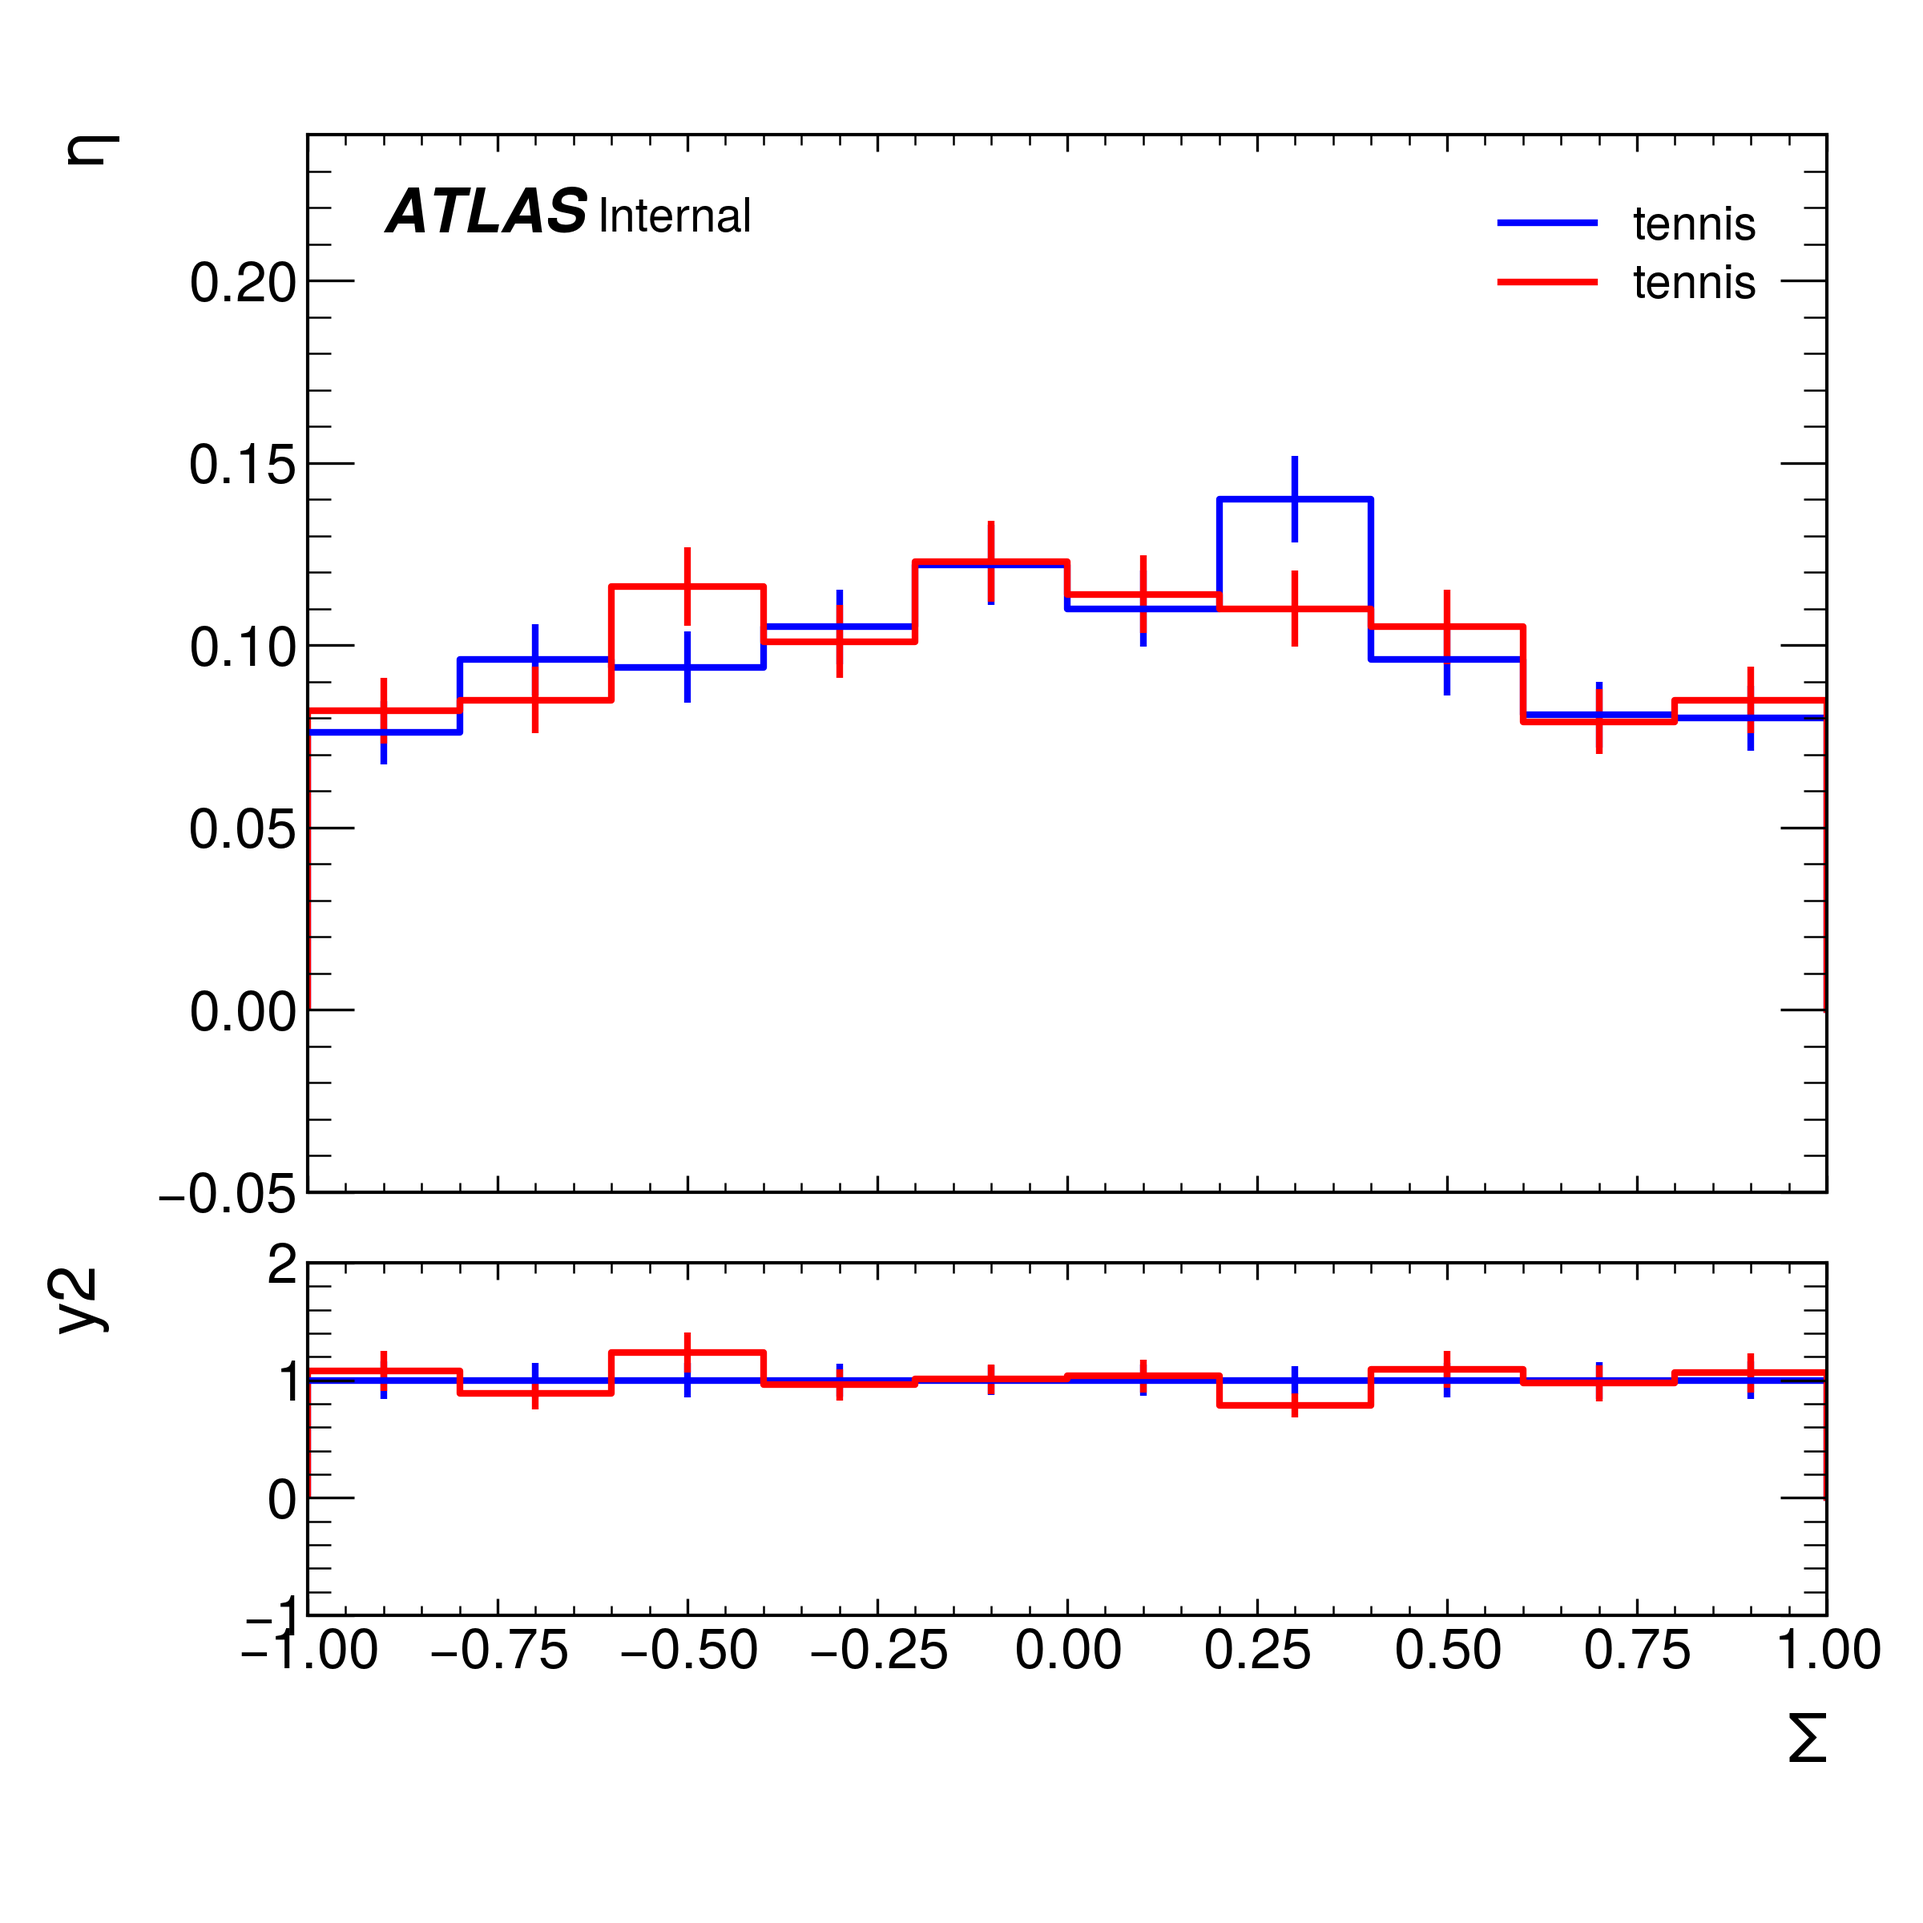
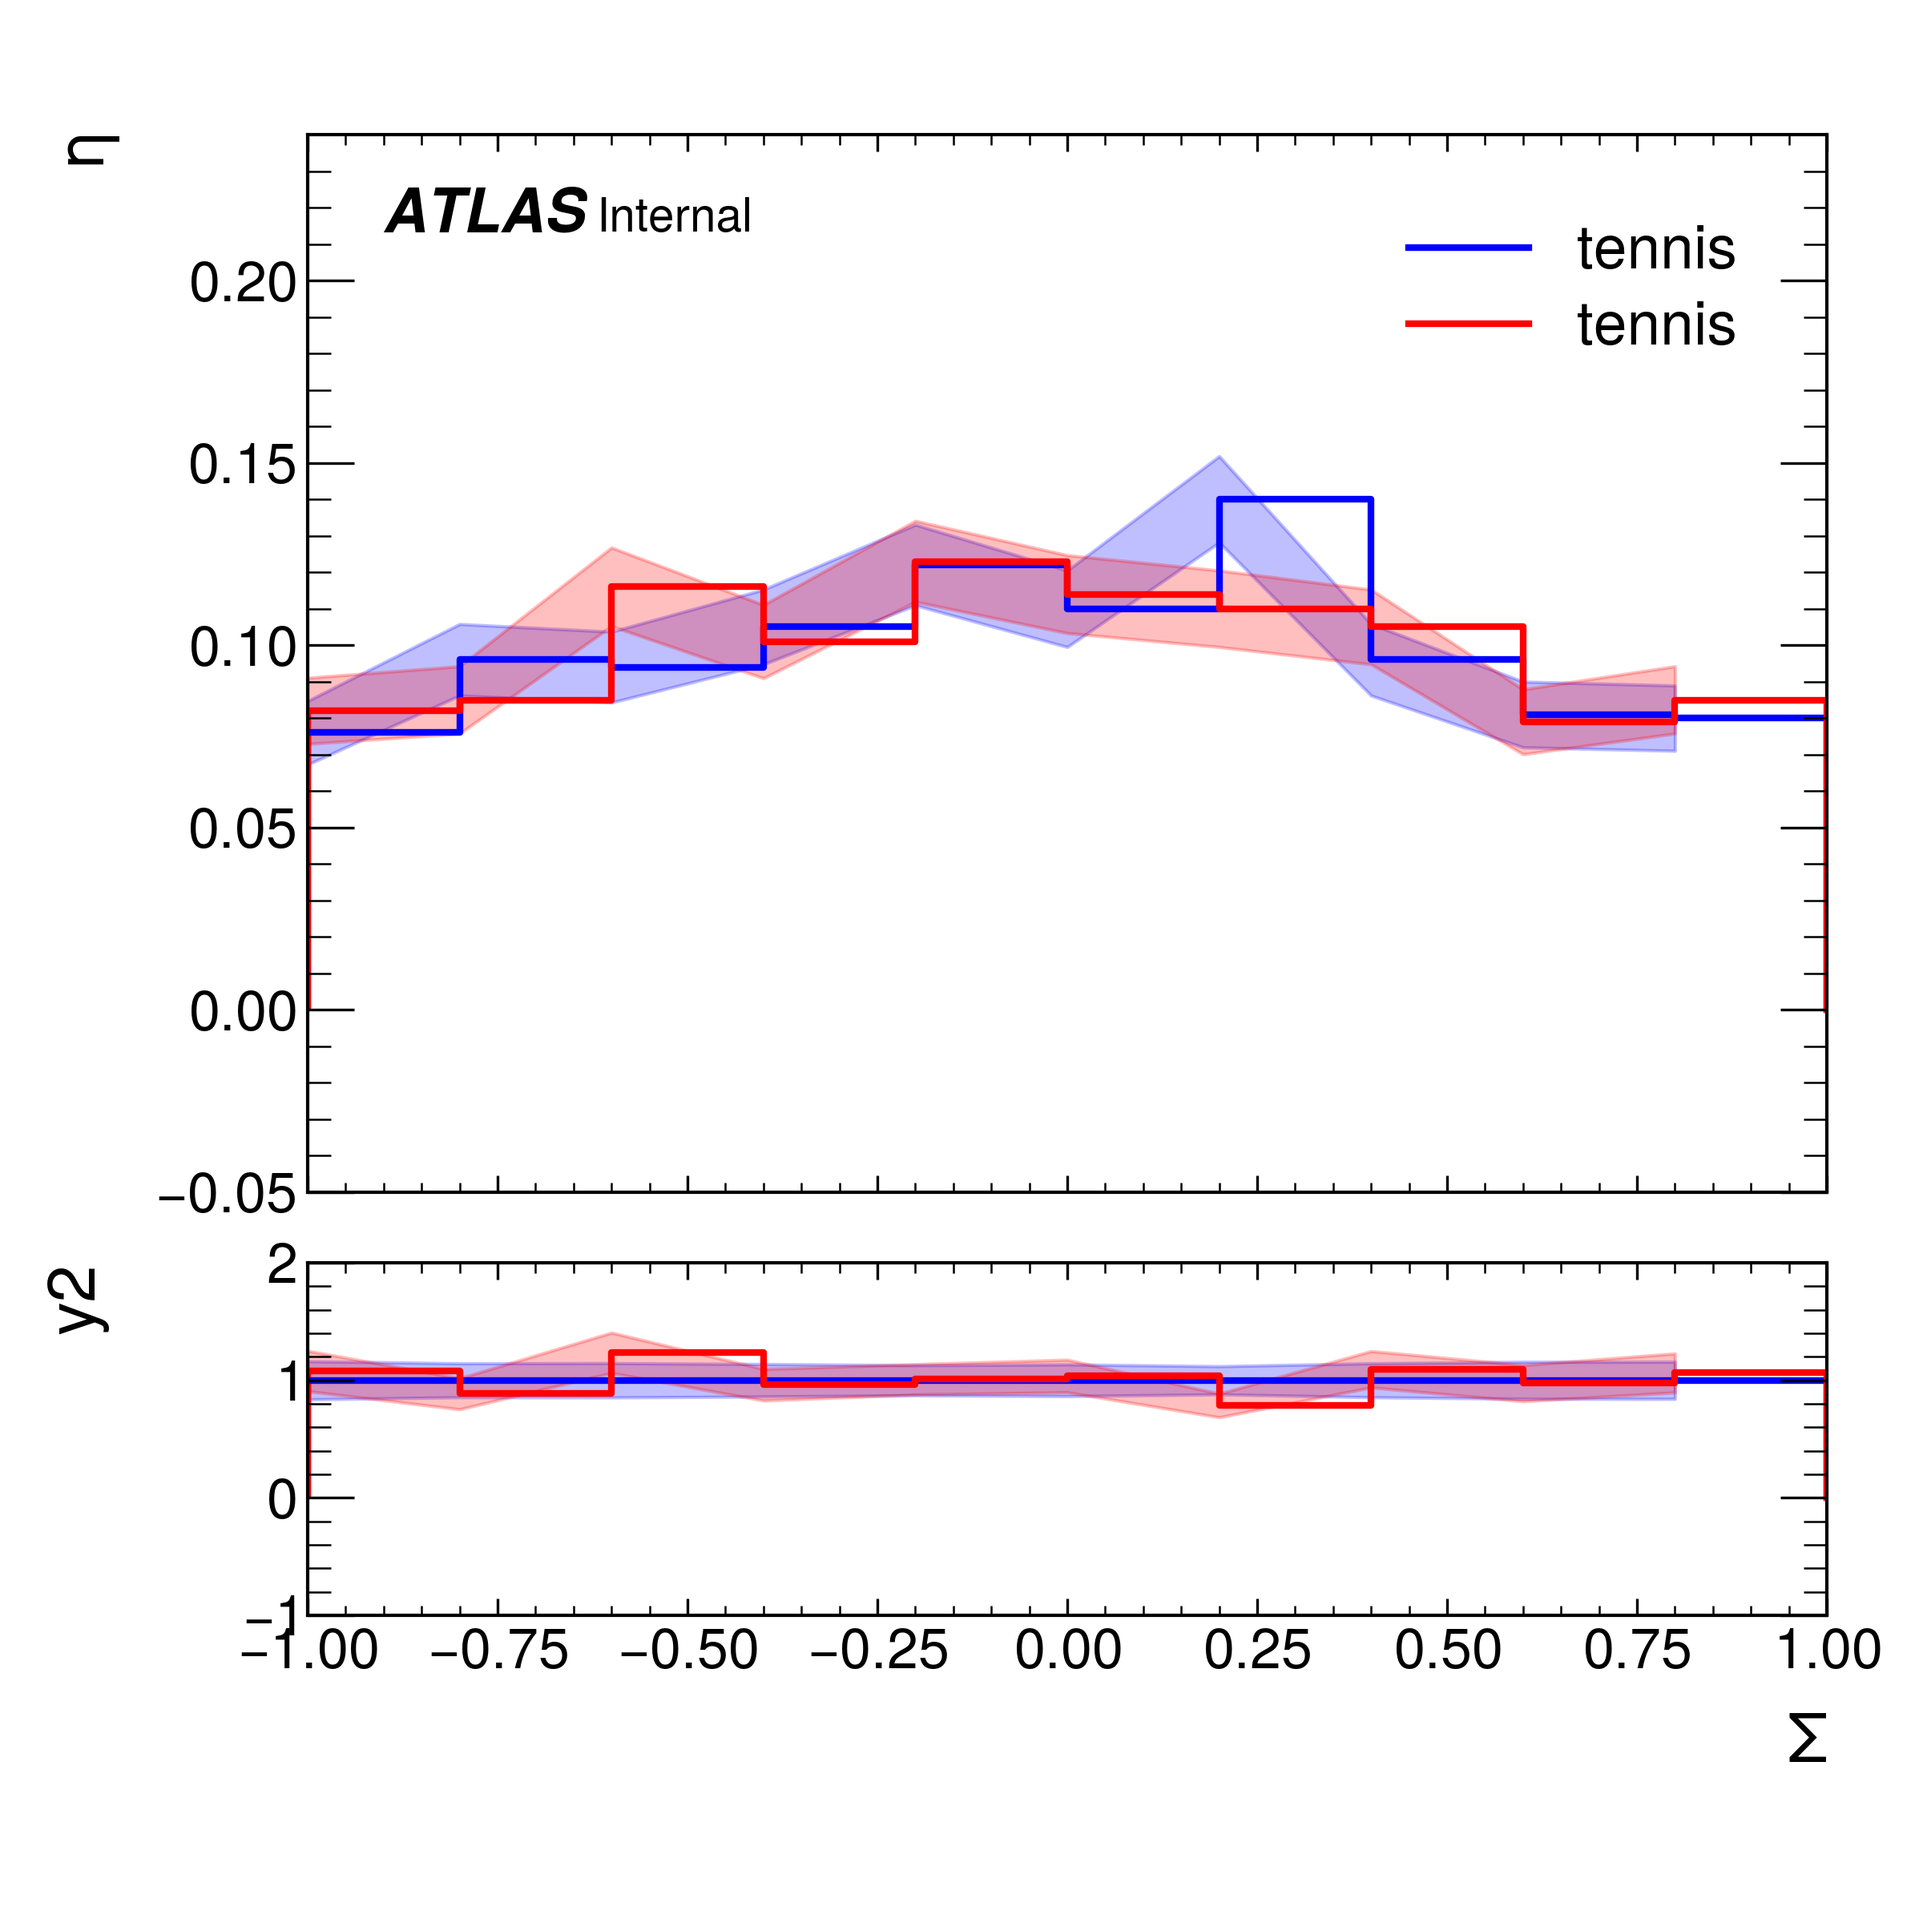
Added additional plotting capabilities

Changed region(s): [[0.1562, 0.2188, 0.875, 0.4062], [0.1562, 0.6875, 0.875, 0.75], [0.75, 0.0938, 0.9062, 0.1875]]

diff --git a/Py3ROOT_mplhep/Py3.6/Plotting.py b/Py3ROOT_mplhep/Py3.6/Plotting.py
@@ -48,7 +48,9 @@ class HEP_Plot:
         elif experiment=="CMS"  : plt.style.use(hep.style.CMS)
         elif experiment=="ALICE": plt.style.use(hep.style.ALICE)
         elif experiment=="LHCb2": plt.style.use(hep.style.LHCb2)
-        elif experiment=="ATLASTex": plt.style.use(hep.style.ATLASTe)
+        elif experiment=="ATLASTex": 
+            print("This is not supported because do not have a working TexLive distribution")
+            # plt.style.use(hep.style.ATLASTex) # T
 
 
     def Initialise_Seaborn_Plot(self,**kwargs):
@@ -59,8 +61,7 @@ class HEP_Plot:
         else:
             sns.set_style("dark")
 
-    def Add_Histograms(self,histograms2add: list):
-        self.list_of_histograms = self.list_of_histograms + histograms2add
+
 
 
     def Initialise_Plot_Design(self,design,**kwargs):
@@ -75,16 +76,21 @@ class HEP_Plot:
             self.Initialise_Seaborn_Plot(**kwargs)
 
 
+
+    def Add_Histograms(self,histograms2add: list):
+        self.list_of_histograms = self.list_of_histograms + histograms2add
+
+
     def Customise_Legend(self):
         pass
 
 
     @staticmethod
-    def Steps_Filled_Errors_Root(ax,ROOT_hist):
-        pass
-
-    @staticmethod
     def Step_Line(ax,PH):
+
+        """
+        Basic line histogram (which emulated mplhep.histplot)
+        """
 
         x_binning = PH.Bin_Edges
         values    = np.concatenate((PH.Bin_Values,np.asarray([0])), axis=0) 
@@ -94,39 +100,35 @@ class HEP_Plot:
 
         return ax
 
+
     @staticmethod
     def Step_Line_Errorbar(ax,PH):
 
+        """
+        For generating a line histogram with uncapped errorbars
+        """
+
         ax = HEP_Plot.Step_Line(ax,PH)
 
-        ax.errorbar(PH.Bin_Centres,PH.Bin_Values,PH.Bin_Errors,elinewidth=PH.linewidth,ecolor=PH.colour,fmt='',xerr=None,linestyle='')
+        ax.errorbar(PH.Bin_Centres,PH.Bin_Values,PH.Bin_Errors,elinewidth=20,ecolor=PH.colour,fmt='',xerr=None,linestyle='')
 
 
 
     @staticmethod
-    def Steps_Filled_Erros(ax,Hist_Wrapper,Normalised):#Histogram,error_up,error_down): # Need to pass error up and error down
+    def Line_Filled_Errors(ax,PH):
 
-        """For making a histogram plot with steps, where the errors are filled lighter bars above and below the step """
+        """
+        For generating a line histogram with filled block error 
+        """
 
-        # Histogram = Hist_Ob.Histogram
-        # print(Hist_Wrapper.__dict__)
-        # input()
-        Hist = Hist_Wrapper.Norm_hist if Normalised else Hist_Wrapper.ROOT_hist
+        ax = HEP_Plot.Step_Line(ax,PH)
 
-        hep.histplot(Hist, ax=ax, stack=False, histtype='step',color=Hist_Wrapper.colour,label=Hist_Wrapper.legend_entry,lw=1.0)
+        for i in range(0,len(PH.Bin_Values)):
 
-        # Not used
-        errps = {'hatch':'////', 'facecolor':'blue', 'lw': 0, 'alpha': 0.4}
-
-
-        # bin_edges = [xx_axis.GetBinUpEdge(binn) for x in ]
-        x_binning = Hist_Wrapper.Bin_Edges(Hist)
-        values    = Hist_Wrapper.Bin_Values(Hist)
-        errors    = Hist_Wrapper.Bin_Errors(Hist)
-        ax.stairs(
-            values=values + errors,
-            baseline=values - errors,
-            edges=x_binning, fill=True,alpha=0.25,color=Hist_Wrapper.colour)
+            ax.fill_between(x=[PH.Bin_Edges[i],PH.Bin_Edges[i+1]],
+                            y1=PH.Bin_Values[i]+PH.Bin_Errors[i],
+                            y2=PH.Bin_Values[i]-PH.Bin_Errors[i],
+                            color=PH.colour,alpha=0.2)
 
 
 
@@ -156,12 +158,11 @@ class HEP_Plot:
 
         """Selects the type of plot from the dictionary which effectives works as a switch"""
 
-        plot_dic = {"basic-line":self.Step_Line,
-                    "errorbar-line":self.Step_Line_Errorbar}
+        plot_dic = {"basic-line"        : self.Step_Line,
+                    "line-errorbar"     : self.Step_Line_Errorbar,
+                    "line-filled-error" : self.Line_Filled_Errors}
 
         return plot_dic[plot_type]
-
-
 
 
 
@@ -260,102 +261,9 @@ class Ratio_Plot_ROOT(HEP_Plot):
         # Do the legend here
         handles, labels = ax.get_legend_handles_labels()
         labels = [HW.legend_entry for HW in self.list_of_histograms]
-        ax.legend(handles, labels)
+        ax.legend(handles, labels,prop={'size': 18})
 
         return plt,ax,rax
-
-
-
-
-    # def Make_Errorbar_Line_Plot(self):
-
-    #     fig,ax,rax =self.initialise_axes()
-    #     # ax,rax =self.axes[0],self.axes[1]
-
-    #     # Top plot
-    #     for PH in self.list_of_histograms:
-    #         HW = PH.Norm_PyWrap_Hist if self.Normalised else PH.UnNorm_PyWrap_Hist
-    #         self.Step_Errorbar_Line(ax,HW)
-
-    #     for HW in self.list_of_ratio_histograms:
-    #         self.Step_Errorbar_Line(rax,HW)
-
-    #     return plt
-
-
-
-
-
-
-
-# class Ratio_Plot(HEP_Plot):
-
-#     '''
-#     The Ratio_Plot inherits from the parent HEP_Plot class
-#     The methods here are:
-#         - the computation of ratio histograms
-#         - the initialistion of the mpl object
-#         - the filling of the plot
-#     '''
-
-#     def __init__(self,plot_title,**kwargs):
-#         super().__init__(plot_title,**kwargs) 
-#         self.divisor = kwargs["divisor"] if "divisor" in kwargs else None
-
-#     @staticmethod
-#     def Compute_Ratio(hist1,hist2):
-#         ratio_hist = hist1/hist2
-#         ratio_uncertainties = ratio_uncertainty(hist1.view(),hist2.view(),"poisson")
-#         # print(ratio_uncertainties)
-#         # input()
-#         return Hist_Object(ratio_hist,ratio_uncertainties)#[0],ratio_uncertainties[1])
-
-#     def Axis_Labels(self,dic_of_labels):
-#         self.axes[1].set_xlabel(dic_of_labels["x"])
-#         self.axes[1].set_ylabel(dic_of_labels["y2"])
-#         self.axes[0].set_ylabel(dic_of_labels["y1"])
-
-#     def Axis_XTick_Labels(self,labels,**kwargs):
-#         # print(self.axes[1].get_xticklabels)
-#         # input()
-#         self.axes[1].set_xticklabels(labels)
-        
-
-#     def Make_Step_Fill_Plot(self):
-
-#         assert len(self.list_of_histograms) != 0, "No histograms passed to plot" 
-
-#         # Initialise the plot
-#         fig, (ax, rax) = plt.subplots(2, 1, figsize=(6,6), gridspec_kw=dict(height_ratios=[3, 1], hspace=0.1), sharex=True)
-
-#         self.fig = fig
-#         self.axes = (ax,rax)
-
-#         # Select whether to do normalisation
-#         legend_elements = []
-
-#         for H in self.list_of_histograms:
-
-#             if self.Normalised == False:
-
-#                 self.Steps_Filled_Erros(ax=ax,Hist_Ob=H.UnNorm_Hist)
-#                 ratio_obj = self.Compute_Ratio(H.UnNorm_Hist.Histogram,self.divisor.UnNorm_Hist.Histogram)
-#                 ratio_obj.Set_Features(colour=H.colour)
-#                 self.Steps_Filled_Erros(ax=rax,Hist_Ob=ratio_obj)
-
-#             elif self.Normalised == True:
-#                 self.Steps_Filled_Erros(ax=ax,Hist_Ob=H.Norm_Hist)
-#                 ratio_obj = self.Compute_Ratio(H.Norm_Hist.Histogram,self.divisor.Norm_Hist.Histogram)
-#                 ratio_obj.Set_Features(colour=H.colour)
-#                 self.Steps_Filled_Erros(ax=rax,Hist_Ob=ratio_obj)
-
-#             # Do the legend part here
-#             legend_elements.append(Line2D([0],[0],color=H.colour,lw=2,label=H.label))
-
-#         ax.legend(handles=legend_elements)#, loc='center')
-
-#         # ax.legend()
-#         return plt
 
 
 

diff --git a/Py3ROOT_mplhep/Py3.6/test2.py b/Py3ROOT_mplhep/Py3.6/test2.py
@@ -7,20 +7,25 @@ TH1.SetDefaultSumw2()
 # Make ROOT histograms
 
 
-hist1 = TH1D("hist1","",50,-1,1)
-hist1.FillRandom("gaus",1000)
+from FromTree import project_hist_unNormalised as proj 
 
-hist2 = TH1D("hist2","",50,-1,1)
-hist2.FillRandom("gaus",1000)
+ROOThist1 = proj(filename="/home/ethan/Documents/Qualification_Task/TTbar_Samples/ttbar_dec15_reco_odd.root",
+				treename="reco_odd",
+				binning=np.linspace(0,300e3,51),
+				branchname="el_pt")
 
-hist3 = hist1.Clone()
-hist3.Divide(hist2)
+ROOThist2 = proj(filename="/home/ethan/Documents/Qualification_Task/TTbar_Samples/ttbar_dec15_reco_odd.root",
+				treename="reco_odd",
+				binning=np.linspace(0,300e3,51),
+				branchname="mu_pt",)
+
+
 
 # Convert to Python Wrappers
 from PyHist_Class import Histogram_Wrapper as Histogram
 
-x1 = Histogram(hist1,"hist1",colour="pink"  ,legend_entry="tennis")
-x2 = Histogram(hist2,"hist2",colour="green"  ,legend_entry="tennis" )
+x1 = Histogram(ROOThist1,"hist1",colour="blue"  ,legend_entry="tennis")
+x2 = Histogram(ROOThist2,"hist2",colour="red"  ,legend_entry="tennis" )
 
 
 # Initialise the plot
@@ -29,12 +34,14 @@ from Plotting import Ratio_Plot_ROOT
 p = Ratio_Plot_ROOT("A Plot",list_of_histograms=[x1,x2],divisor=x1,normalise=True)
 p.Initialise_Plot_Design("ATLAS")
 
-plt,ax,rax = p.Make_Ratio_Plot("line-filled-error")
+plt,ax,rax = p.Make_Ratio_Plot("errorbar-line")
 import matplotlib
 p.Add_ATLAS_Label("Internal")
 
 p.add_axis_labels(x_lower=r"$\Sigma$",y_upper=r"$\eta$",y_lower="y2")
 
+
+ax.legend(prop={'size': 60})
 
 # Additional design paramters
 
@@ -43,6 +50,8 @@ rax.yaxis.labelpad = 40
 
 fig = plt.gcf()
 fig.set_size_inches(8, 8)
+
+
 
 
 plt.show()
